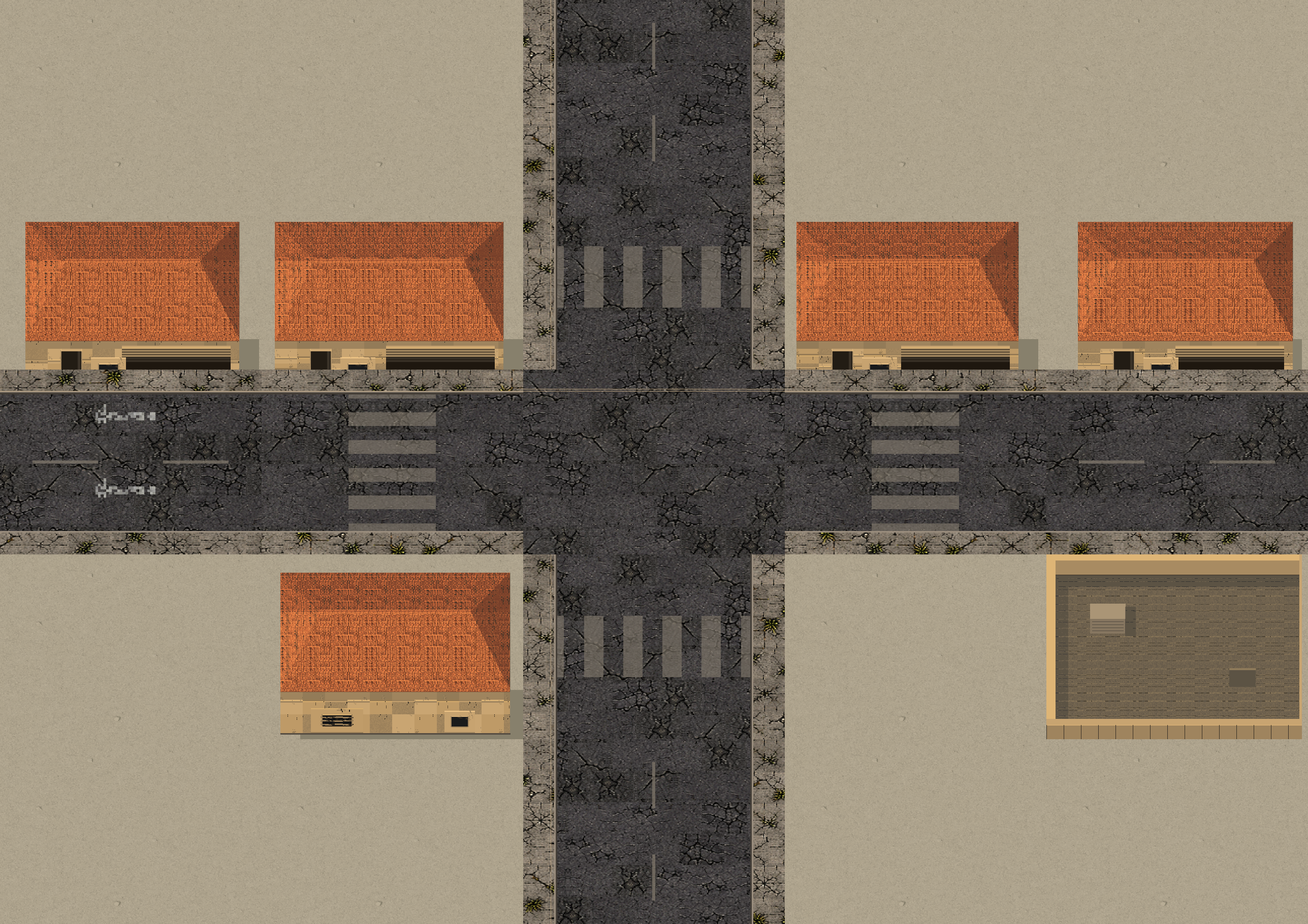
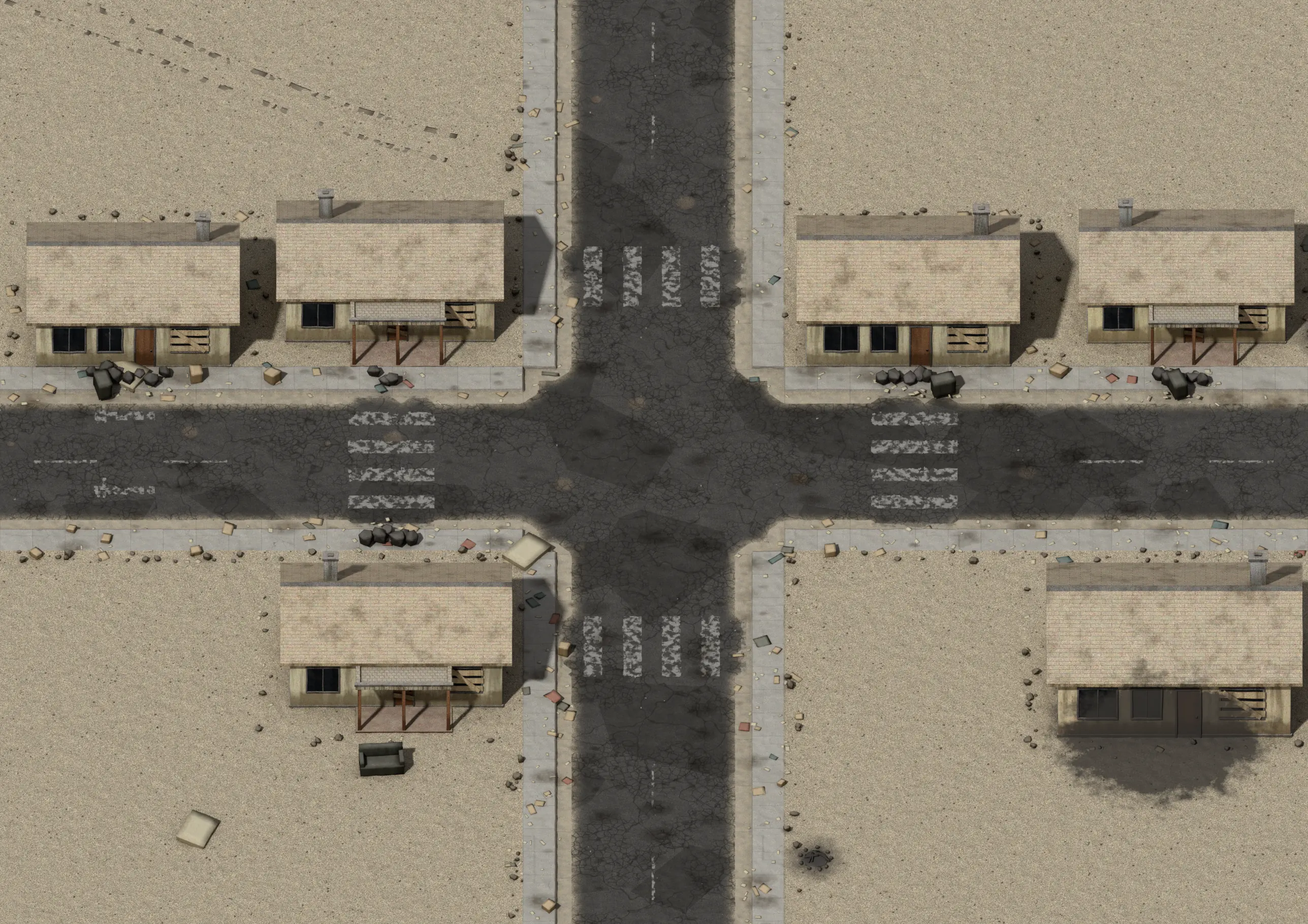
COOK [the floor, not final]: corner.0 into the fight (the dead crossroads: oil down the road, the bags at four curbs, a burned house's soot over its wall, roof and yard, ruts across the lot); [every 2D asset into 3D]: the casino's slot glow a lit screen in its bezel with a dead band; the map's distr
Claude-Session: https://claude.ai/code/session_01Kz4gMCHTxBPoE7GkAPYmkH

diff --git a/tools/bohemia_cook_the_settlements_through_the_rig_10_20_26.py b/tools/bohemia_cook_the_settlements_through_the_rig_10_20_26.py
@@ -187,8 +187,19 @@ class Place:
     def model(s, glb, x, y_front, width=None, rot=0.0, scale=None):
         bpy = s.bpy
         before = set(bpy.context.scene.objects)
-        bpy.ops.import_scene.gltf(filepath=os.path.join(MODELS, glb))
+        if glb.startswith('bld_'):
+            # a building is BUILT by the modeller, never imported: its glb lost the shingle courses, the stucco's grime and
+            # its colour on export (glTF carries no procedural node tree: the first town came out white, 10/20)
+            import mathutils
+            import bohemia_cook_model_buildings as BLD
+            tints = ([(1.0, 1.0, 1.0), (1.04, 0.98, 0.93), (0.95, 0.97, 1.0), (1.05, 1.02, 0.9)], [(1.0, 1.0, 1.0), (0.9, 0.9, 0.92), (0.82, 0.78, 0.74)])
+            BLD.TINT = dict(stucco=s.rnd.choice(tints[0]), pale=s.rnd.choice(tints[0]), roof=s.rnd.choice(tints[1]))
+            BLD.M.clear(); BLD.BUILDERS[glb[4:-4]](bpy, mathutils); BLD.TINT = {}
+        else:
+            bpy.ops.import_scene.gltf(filepath=os.path.join(MODELS, glb))
         new = [o for o in bpy.context.scene.objects if o not in before]
+        for o in [o for o in new if '_fence' in o.name]:          # a ranch's own fence: the place has its own edges
+            new.remove(o); bpy.data.objects.remove(o, do_unlink=True)
         for o in list(new):
             if o.type == 'MESH' and o.name.startswith('Icosphere') and o.parent is None and len(o.data.vertices) == 42:
                 new.remove(o); bpy.data.objects.remove(o, do_unlink=True)
@@ -255,8 +266,9 @@ def layout(tier, var, hot, pl, rnd):
         pl.model('wreck.glb', X0 + 14 + var * 8, 31.0, None, math.radians(90 + rnd.uniform(-15, 15)), 1.0)
         pl.model('wreck.glb', X0 + 38 - var * 5, 29.6, None, math.radians(-80), 1.0)
         pl.drum_fire(mid('stall') + 3.0, f['stall'][2] + 0.3)
-        for k, x in enumerate((X0 + 3, X0 + 16, X0 + 33, X0 + 45)):
-            pl.model(['bld_ranch_plain.glb', 'bld_ranch_porch.glb', 'bld_ranch_garage.glb', 'bld_ranch_plain.glb'][(k + var) % 4], x + 3, 12.6, 10.5 if k != 2 else 14.0)
+        for k, x in enumerate((X0 + 3, X0 + 33, X0 + 45)):           # the lot where the board stands is empty: its house is gone
+            pl.model(['bld_ranch_plain.glb', 'bld_ranch_garage.glb', 'bld_ranch_porch.glb'][(k + var) % 3], x + 3, 12.6, 10.5 if k != 1 else 14.0)
+        pl.model('rubble.glb', X0 + 15.5, 13.0, None, 0.3, 1.0)                    # what is left of it
         pl.model('dumpster.glb', X0 + 30, 24.6, None, 0.2, 1.0)
         pl.built(crates, X0 + 26, 24.2, None, 0.0, 1.0, 3)
     elif tier == 'camp':
@@ -340,7 +352,7 @@ def render(p):
     os.makedirs(os.path.join(OUT, 'render'), exist_ok=True)
     day = os.path.join(OUT, 'render', p['name'] + '.png'); sc.render.filepath = day; bpy.ops.render.render(write_still=True)
     night = None
-    if p['night']:
+    if p['night'] and not os.environ.get('COOK_DAY_ONLY'):
         # NIGHT: the same place under a moon, every lamp and fire lit (the old picture's count of lights)
         sun.data.energy *= 0.16; sun.data.color = (0.62, 0.72, 1.0)
         bg = sc.world.node_tree.nodes['Background']; c = bg.inputs[0].default_value; bg.inputs[0].default_value = (c[0] * 0.5, c[1] * 0.6, c[2] * 1.0, 1); bg.inputs[1].default_value *= 0.3

diff --git a/tools/bohemia_cook_the_cover_through_the_rig_10_20_26.py b/tools/bohemia_cook_the_cover_through_the_rig_10_20_26.py
@@ -60,8 +60,9 @@ PIECES = {
     'dock': ('proc', None, 14), 'slot_bank': ('proc', None, 15), 'table': ('proc', None, 16), 'pillar': ('proc', None, 17),
     'outcrop': ('proc', None, 18),
     'light_lamp_house_side': ('lamp.glb', None, 19), 'light_lamp_your_side': ('lamp.glb', None, 20), 'light_oil_drum': ('proc', None, 21),
+    'light_slot_glow': ('proc', None, 22),
 }
-FACE_FORCE = {'car_drive': ['W']}                    # the patrol car shows its light bar, nose to the road or tail
+FACE_FORCE = {'car_drive': ['W'], 'light_slot_glow': ['S']}                    # the patrol car shows its light bar, nose to the road or tail
 for i in range(21): PIECES['rock_%d' % i] = ('proc', None, 30 + i)
 for i in range(12): PIECES['rubble_%d' % i] = ('proc', None, 60 + i)
 
@@ -234,6 +235,12 @@ def build_proc(piece, bpy, mathutils, P):
             P.chunk(bpy, 'fallen_%d' % k, grey, (0.25, 0.2, 0.15), (rnd.uniform(-1.2, 1.2), -1.15 - rnd.uniform(0, 0.4), 0.07), (0, 0, rnd.uniform(0, 6)), rnd)
         steel = P.mat(bpy, 'rebar', 'rubber', 1)
         for k in range(3): P.rod(bpy, 'rebar_%d' % k, steel, (0.75 - k * 0.1, -0.92, 0.2), (0.82 - k * 0.12, -0.95, 1.0), 0.016, 6)
+        return
+    if piece == 'light_slot_glow':
+        # a slot machine's screen still lit in the dark casino: the bezel, the glass, one band of it dead
+        P.box(bpy, 'bezel', P.mat(bpy, 'bezel', 'cloth_black', 2), (0.62, 0.08, 0.36), (0, 0, 0.18), bevel=0.01)
+        P.box(bpy, 'screen', P.mat(bpy, 'screen_lit', 'clay_teal', 3, glow=1.6), (0.52, 0.02, 0.26), (0, -0.045, 0.18))
+        P.box(bpy, 'dead_band', P.mat(bpy, 'screen_dead', 'glass_eye', 0), (0.52, 0.022, 0.04), (0, -0.047, 0.11))
         return
     if piece == 'light_oil_drum':
         P.import_model(bpy, os.path.join(MODELS, 'oil_drum.glb'), (0, 0, 0), (0, 0, 0))

diff --git a/tools/bohemia_cook_the_map_through_the_rig_10_20_26.py b/tools/bohemia_cook_the_map_through_the_rig_10_20_26.py
@@ -42,6 +42,9 @@ BANK = os.path.join(R, 'banks/BOHEMIA_DISTRICT_HERO_CANDIDATES_7_23_26.txt')
 CELL_M = 96.0                     # a district cell is 96 m a side (the factory's own comment)
 ZC = 0.8165                       # iso3d's height against a true 30-degree orthographic camera
 SAMPLES = 24
+WEAR = 0.3                        # the guide's 0.6 dusts every flat top, and a district picture is mostly flat tops: at 0.6 the
+                                  # mountain's plate went from his brown to a pale grey (measured 10/20), the whole valley would shift; the
+                                  # floor tool's ground runs 0.25 for the same reason
 
 
 def srgb_lin(c):
@@ -166,7 +169,7 @@ def render(d, sc):
     bpy.ops.wm.read_factory_settings(use_empty=True)
     s_ = bpy.context.scene
     objs, k = build(bpy, sc)
-    RIG.source_pass(objs, float(RIG.G['wear']), 1.0, sum(map(ord, d)) % 7)
+    RIG.source_pass(objs, WEAR, 1.0, sum(map(ord, d)) % 7)
     RIG.dent_pass(objs, 1.0)
     NF.ZS = ZC                                                 # the grime reads heights through this camera's squash
     NF.LEDGER.clear(); NF.LEDGER.update(fires=[], seed=sum(map(ord, d)) % 97, bid=d)
